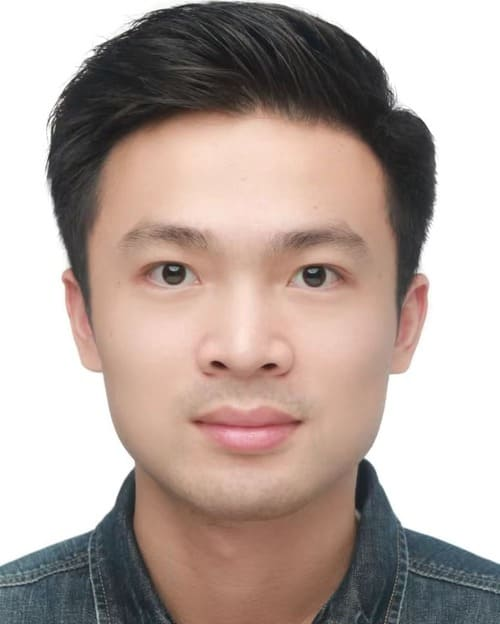
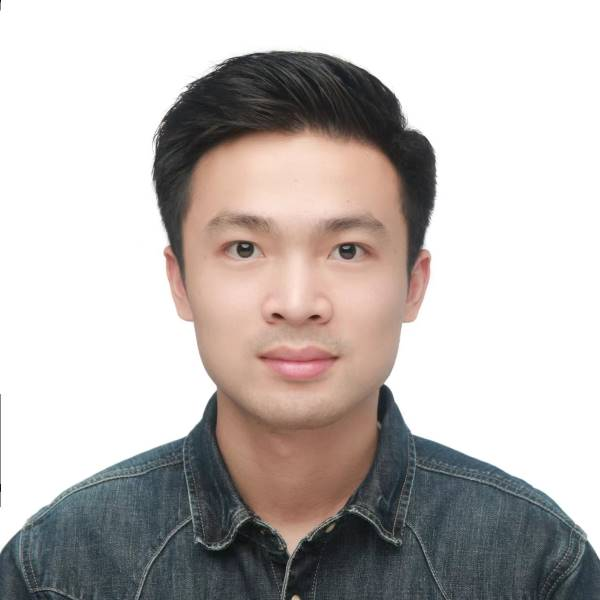
Deploy preview for PR 38 🛫

diff --git a/preview/pr-38/2024/05/11/EFACT-accepted.html b/preview/pr-38/2024/05/11/EFACT-accepted.html
@@ -62,10 +62,10 @@
 
   <meta name="author" content="Admin">
   <meta property="og:type" content="article">
-  <meta property="og:updated_time" content="2024-06-05T06:04:18+00:00">
+  <meta property="og:updated_time" content="2024-06-05T06:12:40+00:00">
   <meta property="article:published_time" content="2024-05-11T00:00:00+00:00">
-  <meta property="article:modified_time" content="2024-06-05T06:04:18+00:00">
-  <meta name="revised" content="2024-06-05T06:04:18+00:00">
+  <meta property="article:modified_time" content="2024-06-05T06:12:40+00:00">
+  <meta name="revised" content="2024-06-05T06:12:40+00:00">
 
 
 <script type="application/ld+json">
@@ -75,7 +75,7 @@
       "@type": "BlogPosting",
       "author": { "@type": "Person", "name": "Paper Accepted by Journal of Systems and Software" },
       "datePublished": "2024-05-11T00:00:00+00:00",
-      "dateModified": "2024-06-05T06:04:18+00:00",
+      "dateModified": "2024-06-05T06:12:40+00:00",
     
     "name": "Paper Accepted by Journal of Systems and Software",
     "description": "East China Normal University. SOLE (System Optimization Lab @ East China Normal University) · 华东师范大学系统优化实验室",

diff --git a/preview/pr-38/2022/10/16/NationalScholarship.html b/preview/pr-38/2022/10/16/NationalScholarship.html
@@ -62,10 +62,10 @@
 
   <meta name="author" content="Admin">
   <meta property="og:type" content="article">
-  <meta property="og:updated_time" content="2024-06-05T06:04:18+00:00">
+  <meta property="og:updated_time" content="2024-06-05T06:12:40+00:00">
   <meta property="article:published_time" content="2022-10-16T00:00:00+00:00">
-  <meta property="article:modified_time" content="2024-06-05T06:04:18+00:00">
-  <meta name="revised" content="2024-06-05T06:04:18+00:00">
+  <meta property="article:modified_time" content="2024-06-05T06:12:40+00:00">
+  <meta name="revised" content="2024-06-05T06:12:40+00:00">
 
 
 <script type="application/ld+json">
@@ -75,7 +75,7 @@
       "@type": "BlogPosting",
       "author": { "@type": "Person", "name": "SOLERs received scholarships!" },
       "datePublished": "2022-10-16T00:00:00+00:00",
-      "dateModified": "2024-06-05T06:04:18+00:00",
+      "dateModified": "2024-06-05T06:12:40+00:00",
     
     "name": "SOLERs received scholarships!",
     "description": "East China Normal University. SOLE (System Optimization Lab @ East China Normal University) · 华东师范大学系统优化实验室",

diff --git a/preview/pr-38/2023/12/04/TCSA-accepted.html b/preview/pr-38/2023/12/04/TCSA-accepted.html
@@ -62,10 +62,10 @@
 
   <meta name="author" content="Admin">
   <meta property="og:type" content="article">
-  <meta property="og:updated_time" content="2024-06-05T06:04:18+00:00">
+  <meta property="og:updated_time" content="2024-06-05T06:12:40+00:00">
   <meta property="article:published_time" content="2023-12-04T00:00:00+00:00">
-  <meta property="article:modified_time" content="2024-06-05T06:04:18+00:00">
-  <meta name="revised" content="2024-06-05T06:04:18+00:00">
+  <meta property="article:modified_time" content="2024-06-05T06:12:40+00:00">
+  <meta name="revised" content="2024-06-05T06:12:40+00:00">
 
 
 <script type="application/ld+json">
@@ -75,7 +75,7 @@
       "@type": "BlogPosting",
       "author": { "@type": "Person", "name": "Paper Accepted by IEEE TPDS" },
       "datePublished": "2023-12-04T00:00:00+00:00",
-      "dateModified": "2024-06-05T06:04:18+00:00",
+      "dateModified": "2024-06-05T06:12:40+00:00",
     
     "name": "Paper Accepted by IEEE TPDS",
     "description": "East China Normal University. SOLE (System Optimization Lab @ East China Normal University) · 华东师范大学系统优化实验室",

diff --git a/preview/pr-38/2023/09/28/AdaptiveGrouping-accepted.html b/preview/pr-38/2023/09/28/AdaptiveGrouping-accepted.html
@@ -62,10 +62,10 @@
 
   <meta name="author" content="Admin">
   <meta property="og:type" content="article">
-  <meta property="og:updated_time" content="2024-06-05T06:04:18+00:00">
+  <meta property="og:updated_time" content="2024-06-05T06:12:40+00:00">
   <meta property="article:published_time" content="2023-09-28T00:00:00+00:00">
-  <meta property="article:modified_time" content="2024-06-05T06:04:18+00:00">
-  <meta name="revised" content="2024-06-05T06:04:18+00:00">
+  <meta property="article:modified_time" content="2024-06-05T06:12:40+00:00">
+  <meta name="revised" content="2024-06-05T06:12:40+00:00">
 
 
 <script type="application/ld+json">
@@ -75,7 +75,7 @@
       "@type": "BlogPosting",
       "author": { "@type": "Person", "name": "Paper Accepted by ACM TACO" },
       "datePublished": "2023-09-28T00:00:00+00:00",
-      "dateModified": "2024-06-05T06:04:18+00:00",
+      "dateModified": "2024-06-05T06:12:40+00:00",
     
     "name": "Paper Accepted by ACM TACO",
     "description": "East China Normal University. SOLE (System Optimization Lab @ East China Normal University) · 华东师范大学系统优化实验室",

diff --git a/preview/pr-38/2021/09/01/FoundingOfSole.html b/preview/pr-38/2021/09/01/FoundingOfSole.html
@@ -62,10 +62,10 @@
 
   <meta name="author" content="Admin">
   <meta property="og:type" content="article">
-  <meta property="og:updated_time" content="2024-06-05T06:04:18+00:00">
+  <meta property="og:updated_time" content="2024-06-05T06:12:40+00:00">
   <meta property="article:published_time" content="2021-09-01T00:00:00+00:00">
-  <meta property="article:modified_time" content="2024-06-05T06:04:18+00:00">
-  <meta name="revised" content="2024-06-05T06:04:18+00:00">
+  <meta property="article:modified_time" content="2024-06-05T06:12:40+00:00">
+  <meta name="revised" content="2024-06-05T06:12:40+00:00">
 
 
 <script type="application/ld+json">
@@ -75,7 +75,7 @@
       "@type": "BlogPosting",
       "author": { "@type": "Person", "name": "SOLE Was Established!" },
       "datePublished": "2021-09-01T00:00:00+00:00",
-      "dateModified": "2024-06-05T06:04:18+00:00",
+      "dateModified": "2024-06-05T06:12:40+00:00",
     
     "name": "SOLE Was Established!",
     "description": "East China Normal University. SOLE (System Optimization Lab @ East China Normal University) · 华东师范大学系统优化实验室",

diff --git a/preview/pr-38/members/haoyu-liao.html b/preview/pr-38/members/haoyu-liao.html
@@ -460,7 +460,7 @@
   
 <div class="portrait-wrapper">
   <a class="portrait" data-style="" aria-label="Haoyu Liao">
-    <img src="/preview/pr-38/images/members/photo.svg" class="portrait-image" alt="member portrait" loading="lazy" onerror="this.src = '/preview/pr-38/images/fallback.svg'; this.onerror = null;">
+    <img src="/preview/pr-38/images/members/haoyu-liao.jpg" class="portrait-image" alt="member portrait" loading="lazy" onerror="this.src = '/preview/pr-38/images/fallback.svg'; this.onerror = null;">
 
     
       <span class="portrait-text">
@@ -507,7 +507,7 @@
 </div>
 
 
-<p>廖浩宇，男，四川人。</p>
+<p>He is pursuing a graduate degree from the School of Data Science and Engineering, East China Normal University, Shanghai, China. His research interests include cloud scheduling and performance evaluation/analysis.</p>
 
 
 

diff --git a/preview/pr-38/team/index.html b/preview/pr-38/team/index.html
@@ -801,7 +801,7 @@ We foster an environment where team members are treated equally, and where we re
 
 <div class="portrait-wrapper">
   <a href="/preview/pr-38/members/haoyu-liao.html" class="portrait" data-style="small" aria-label="Haoyu Liao">
-    <img src="/preview/pr-38/images/members/photo.svg" class="portrait-image" alt="member portrait" loading="lazy" onerror="this.src = '/preview/pr-38/images/fallback.svg'; this.onerror = null;">
+    <img src="/preview/pr-38/images/members/haoyu-liao.jpg" class="portrait-image" alt="member portrait" loading="lazy" onerror="this.src = '/preview/pr-38/images/fallback.svg'; this.onerror = null;">
 
     
       <span class="portrait-text">
